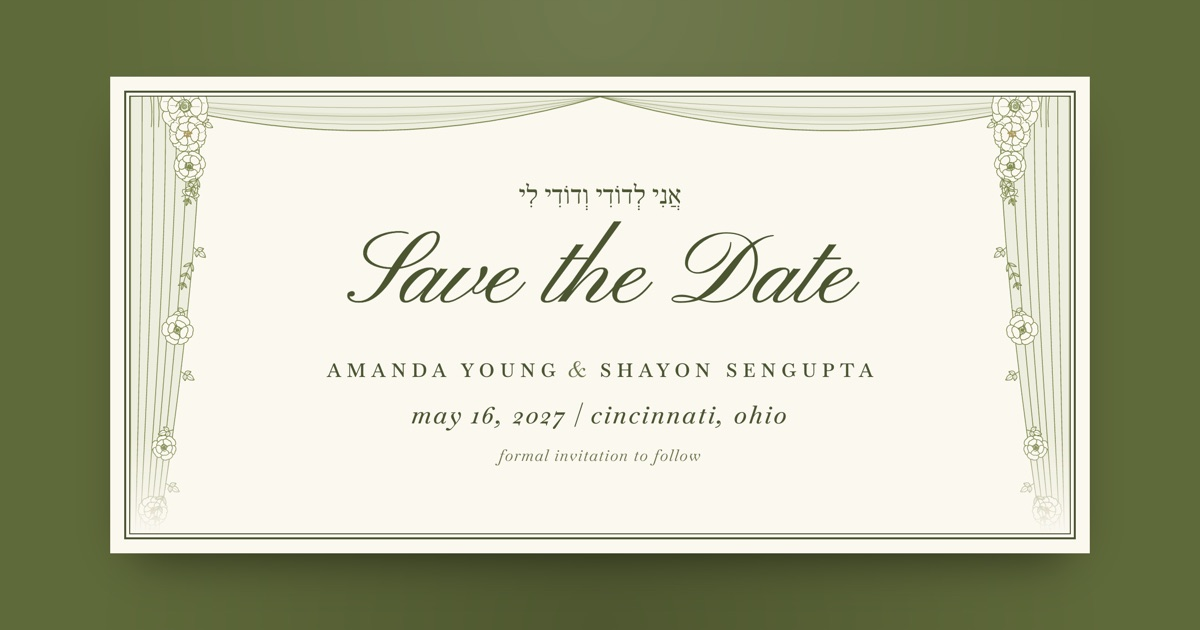
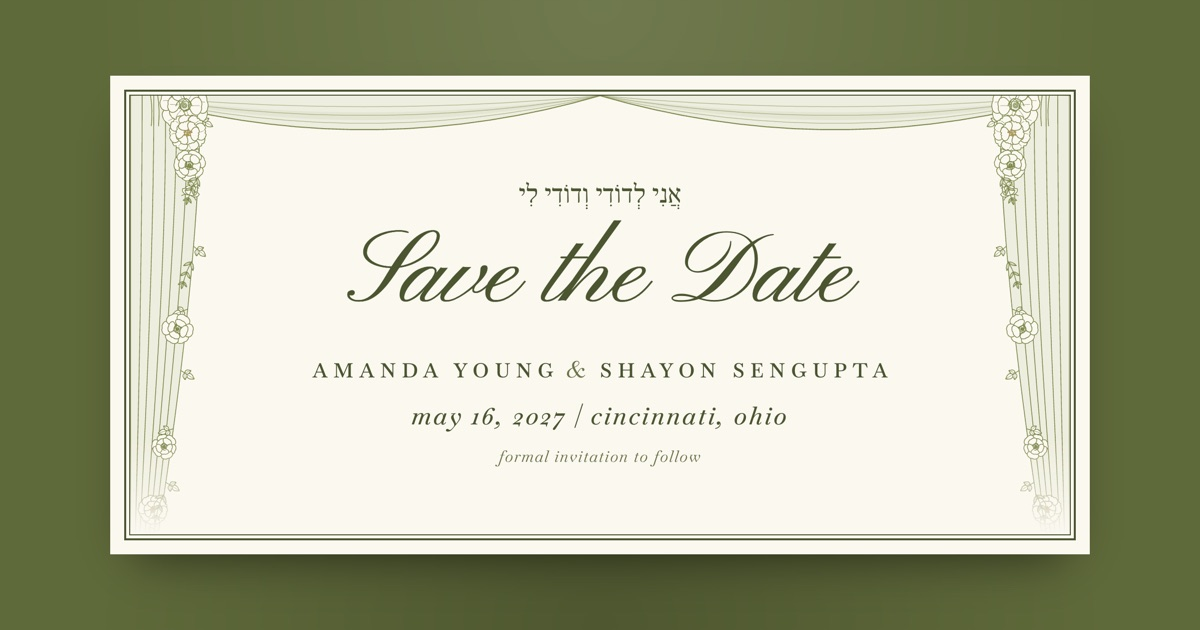
Bigger names; A & S monogram in Great Vibes
- Names enlarged (up to 21px) so they rank right after Save the Date
- Monogram set in Great Vibes; Pinyon Script's S read as an L
- Re-render share images

diff --git a/index.html b/index.html
@@ -13,19 +13,19 @@
 <meta property="og:type" content="website" />
 <meta property="og:url" content="https://shayon297.github.io/save-the-date/" />
 <meta property="og:site_name" content="Amanda &amp; Shayon" />
-<meta property="og:image" content="https://shayon297.github.io/save-the-date/assets/og.jpg?v=15" />
+<meta property="og:image" content="https://shayon297.github.io/save-the-date/assets/og.jpg?v=16" />
 <meta property="og:image:width" content="1200" />
 <meta property="og:image:height" content="630" />
 <meta property="og:image:alt" content="Save the Date — Amanda Young and Shayon Sengupta, May 16, 2027, Cincinnati, Ohio. Formal invitation to follow." />
 <meta name="twitter:card" content="summary_large_image" />
 <meta name="twitter:title" content="Save the Date — Amanda &amp; Shayon" />
 <meta name="twitter:description" content="Sunday, May 16, 2027 · Cincinnati Art Museum · Cincinnati, Ohio" />
-<meta name="twitter:image" content="https://shayon297.github.io/save-the-date/assets/og.jpg?v=15" />
+<meta name="twitter:image" content="https://shayon297.github.io/save-the-date/assets/og.jpg?v=16" />
 
 <link rel="preconnect" href="https://fonts.googleapis.com">
 <link rel="preconnect" href="https://fonts.gstatic.com" crossorigin>
-<link href="https://fonts.googleapis.com/css2?family=Baskervville:ital,wght@0,400;0,500;0,600;1,400;1,500&family=Frank+Ruhl+Libre:wght@400;500&family=Pinyon+Script&display=swap" rel="stylesheet">
-<link rel="stylesheet" href="styles.css?v=46" />
+<link href="https://fonts.googleapis.com/css2?family=Baskervville:ital,wght@0,400;0,500;0,600;1,400;1,500&family=Frank+Ruhl+Libre:wght@400;500&family=Great+Vibes&family=Pinyon+Script&display=swap" rel="stylesheet">
+<link rel="stylesheet" href="styles.css?v=48" />
 <script>
   // ?preview=email / ?preview=og switch the page into fixed layouts used to render the share images
   var pv = new URLSearchParams(location.search).get("preview");

diff --git a/styles.css b/styles.css
@@ -96,7 +96,7 @@ body{
 }
 .names-caps{
   font-weight: 600;
-  font-size: clamp(13px, 2.3vw, 16px);
+  font-size: clamp(15px, 3.1vw, 21px);
   letter-spacing: 0.3em;
   padding-left: 0.3em;      /* optically centre tracked caps */
   text-transform: uppercase;
@@ -424,7 +424,7 @@ body{
 .preview-og .drape-side{ overflow: hidden; -webkit-mask-image: linear-gradient(#000 78%, transparent); mask-image: linear-gradient(#000 78%, transparent); }
 .preview-og .drape-side img{ height: 1300px; }
 .preview-og .script-title{ font-size: 104px; margin-bottom: 18px; }
-.preview-og .names-caps{ font-size: 19px; margin-bottom: 14px; }
+.preview-og .names-caps{ font-size: 20px; margin-bottom: 14px; white-space: nowrap; }
 .preview-og .names-caps .name{ display: inline; }
 .preview-og .names-caps .amp{ display: inline; margin: 0 0.6em 0 0.3em; }
 .preview-og .date-line{ font-size: 25px; }
@@ -466,8 +466,8 @@ body{
   align-items: center;
 }
 .footer-mark{
-  font-family: var(--script);
-  font-size: 30px;
+  font-family: "Great Vibes", var(--script);   /* Pinyon's capital S reads as an L at this size */
+  font-size: 40px;
   line-height: 1;
   color: var(--ink);
 }

diff --git a/email.html b/email.html
@@ -22,7 +22,7 @@
         <tr>
           <td align="center" style="padding:0;">
             <a href="https://shayon297.github.io/save-the-date/" style="text-decoration:none;">
-              <img src="https://shayon297.github.io/save-the-date/assets/card-email.jpg?v=14" width="600" alt="Save the Date — Shayon Sengupta and Amanda Young, Sunday, May 16, 2027, Cincinnati Art Museum" style="display:block;width:100%;max-width:600px;height:auto;border:0;box-shadow:0 18px 40px -22px rgba(0,0,0,0.45);" />
+              <img src="https://shayon297.github.io/save-the-date/assets/card-email.jpg?v=15" width="600" alt="Save the Date — Shayon Sengupta and Amanda Young, Sunday, May 16, 2027, Cincinnati Art Museum" style="display:block;width:100%;max-width:600px;height:auto;border:0;box-shadow:0 18px 40px -22px rgba(0,0,0,0.45);" />
             </a>
           </td>
         </tr>

diff --git a/CLAUDE.md b/CLAUDE.md
@@ -90,6 +90,7 @@ and a phone width (375px) before calling a change done.
   open roses spaced to the hem). A shallow scalloped swag runs across the top from
   each drape and the two halves meet at the centre (no knot, tail or centre tie);
   it sits behind the drapes.
+- The A & S monogram is set in Great Vibes (Pinyon Script's S read as an L).
 - Names are bride first everywhere (card, titles, monogram A & S, calendar events,
   email, text message), the usual order on wedding stationery.
 - Phones should look like a scaled-down desktop, not a different design, and
